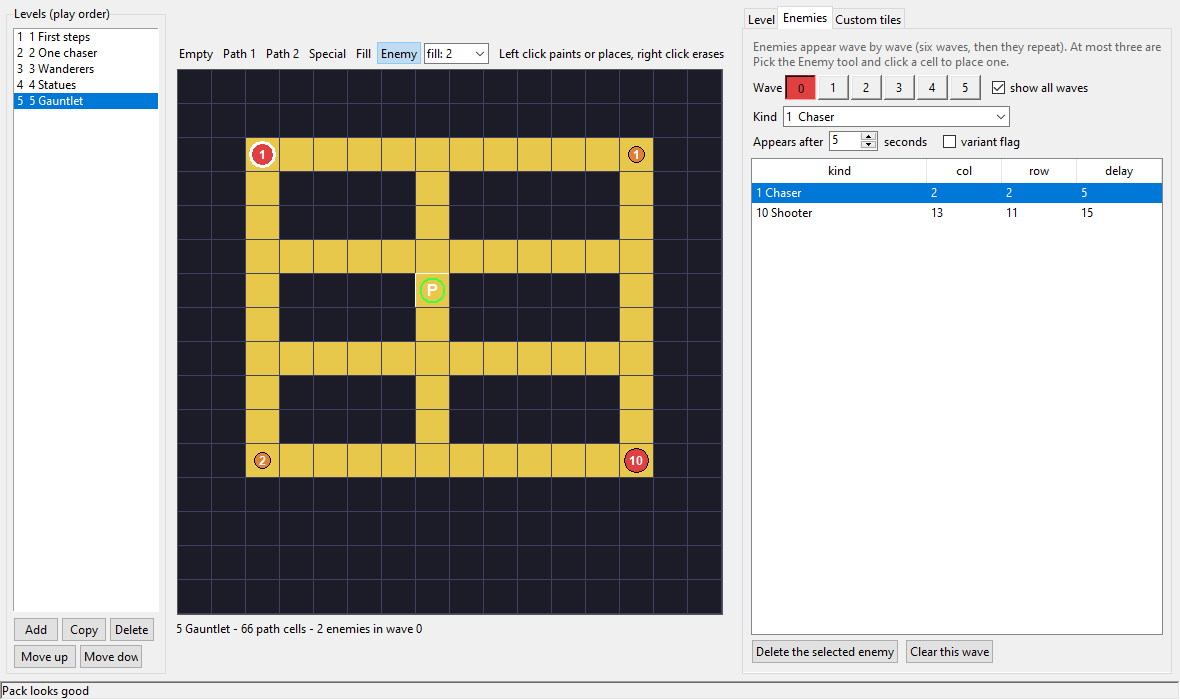
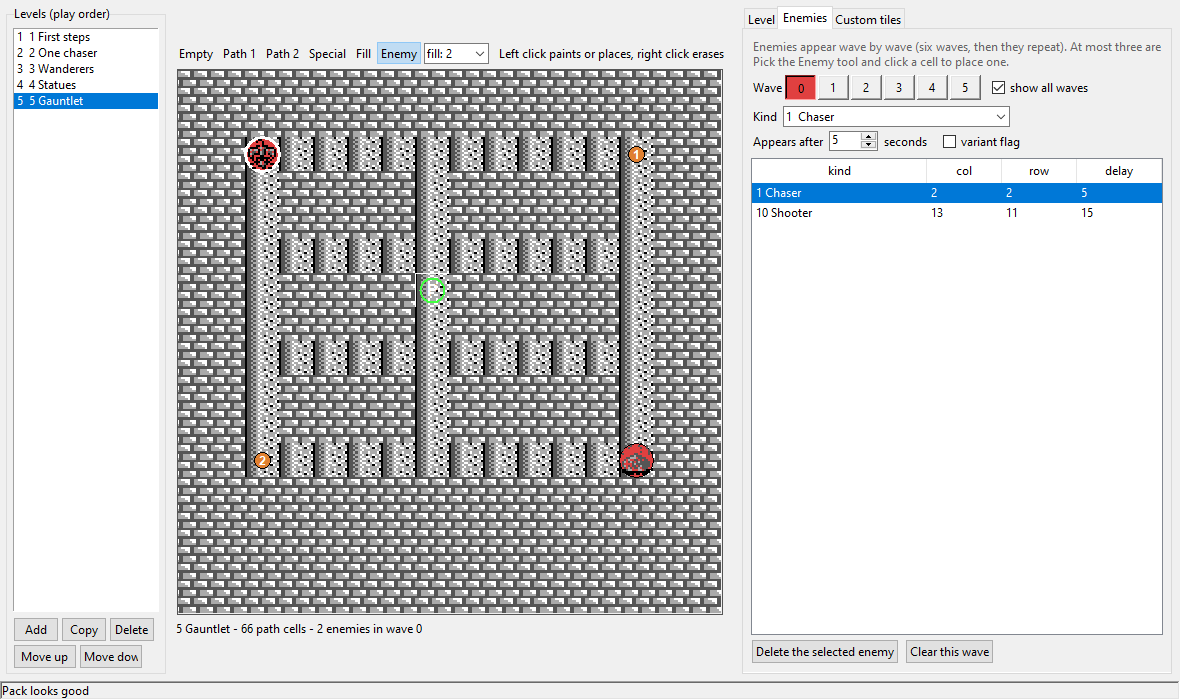
README screenshots with the real room tiles and enemy pictures

diff --git a/tools/readme_screenshots.py b/tools/readme_screenshots.py
@@ -1,13 +1,12 @@
 #!/usr/bin/env python3
 """Make the pictures of the README: python tools/readme_screenshots.py
 
-Starts the level editor with flat colours (no game graphics, so the pictures can be published) on the tutorial pack and saves screenshots of its windows into
-docs/images/. Windows only (it grabs the screen); needs Pillow."""
+Starts the level editor on the tutorial pack and saves screenshots of its windows into docs/images/. With the game data next to it (build/painter_momopie.gb) the pictures
+show the real room tiles and enemies; set PMEDITOR_FLAT=1 for flat colours. Windows only (it grabs the screen); needs Pillow."""
 import os, sys, time
 
 HERE = os.path.dirname(os.path.abspath(__file__))
 ROOT = os.path.dirname(HERE)
-os.environ["PMEDITOR_FLAT"] = "1"
 sys.path.insert(0, HERE)
 import tkinter as tk
 from tkinter import ttk

diff --git a/README.md b/README.md
@@ -21,7 +21,7 @@ and press **F6** to play it. While the test window is open, saving restarts it o
 
 ![The enemies tab: waves, kinds and delays](docs/images/editor_enemies.png)
 
-*(These pictures use flat colours so that no game graphics are published. With your own ROM the editor draws the real room tiles and the real enemy pictures.)*
+*The editor draws the real room tiles and enemy pictures from your own copy of the ROM (without it, flat colours).*
 
 - Per-level and per-pack **custom tiles**: repaint floors, walls, enemies or the player in full colour for one level only (a Halloween level, say).
 - **Custom music** in a small text language, played by the game's own sound engine (the editor has New / Edit / Listen buttons).
